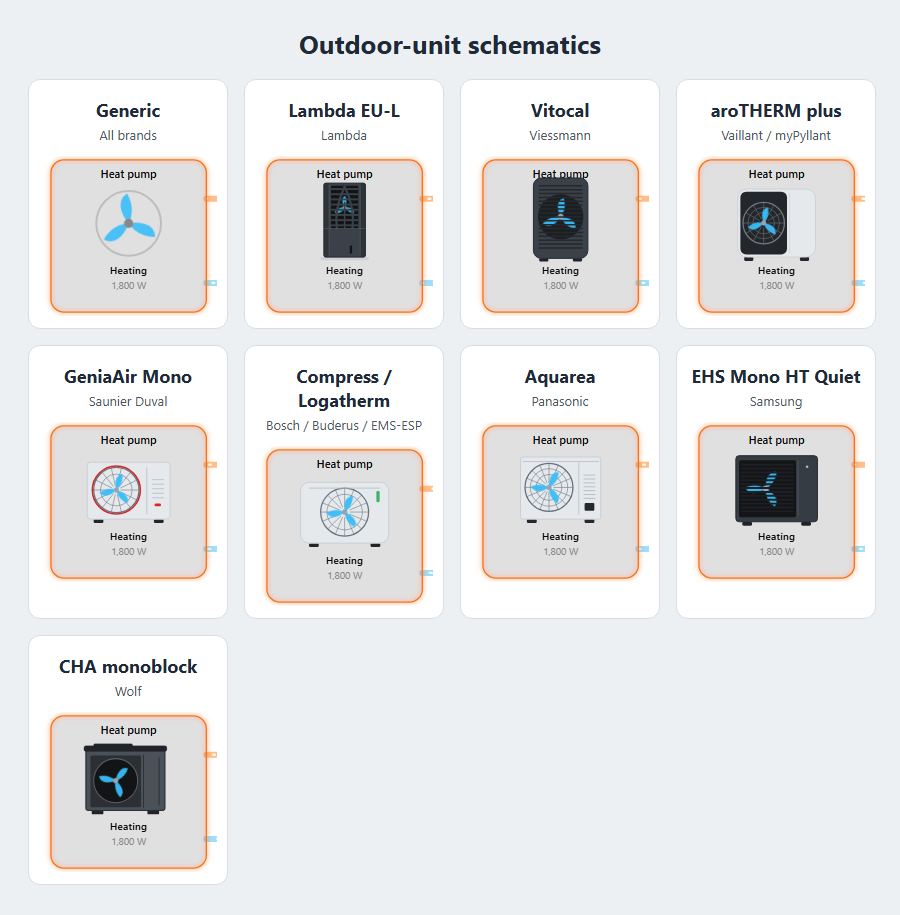
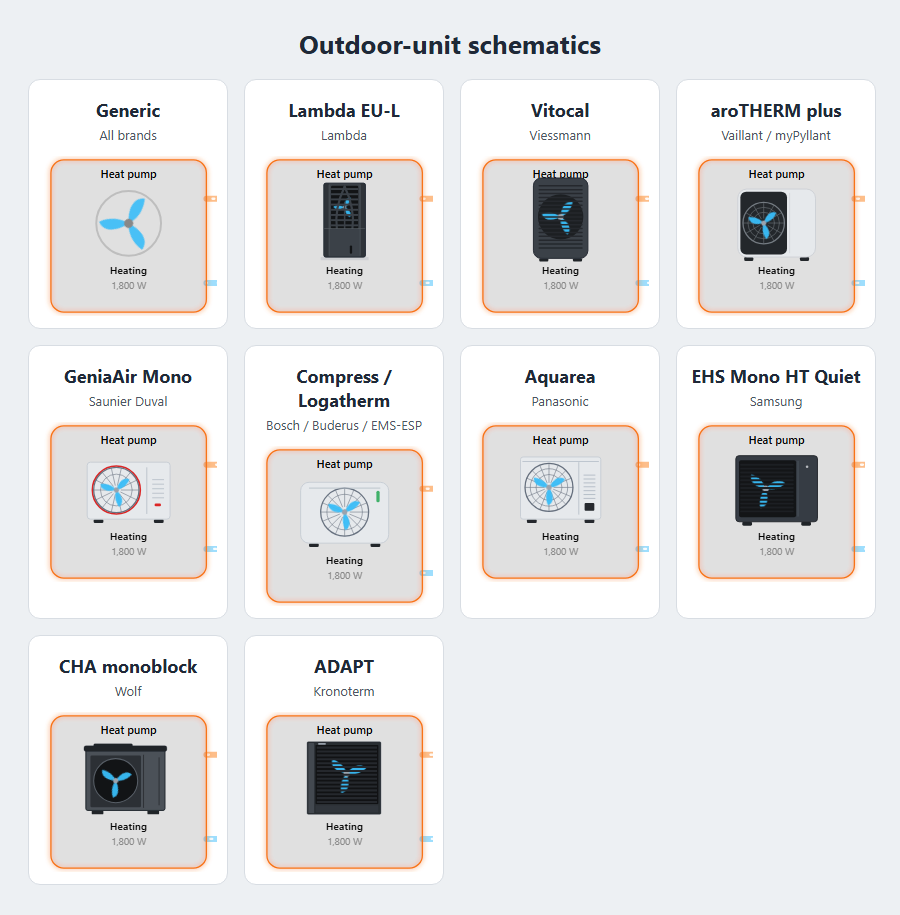
Outdoor-unit drawing for the Kronoterm ADAPT (#157)
unit_style: kronoterm, selected by preset: kronoterm for air units.
Simplified, logo-free ADAPT / ADAPT 2: almost square dark box, louvres
over the whole front hiding the fan, closed side panel, plinth band.
Brine and water units keep the loop symbol.

Topology baseline: only demo 9 (Kronoterm) changes.
README, ROADMAP and docs/unit-styles.png updated.

diff --git a/dist/heatpump-hydraulic-card.js b/dist/heatpump-hydraulic-card.js
@@ -710,6 +710,8 @@ const HFC_PRESETS = {
   kronoterm: {
     name: 'Kronoterm',
     tested: true,
+    // ADAPT air/water unit; brine and water units (ETERA, WPLV …) keep the loop symbol through source_type (#157).
+    unit_style: 'kronoterm',
     // The main circulation pump (register 2038, `main_pump_status`) belongs to the heat pump and runs for heating, hot water and defrost.
     primary_pump: true,
     // The hot water heat pumps of the Kronoterm DHW cloud have neither, so only heating heat pumps are detected.
@@ -1192,7 +1194,7 @@ const HFC_EDITOR = {
     power_sources: 'PV / battery / grid', ps_auto: 'Energy dashboard, unless set below', ps_manual: 'Only the sensors below',
     source_type: 'Heat source', src_air: 'Air', src_brine: 'Ground (brine)', src_water: 'Groundwater',
     hc_count: 'Heating circuits', hc2_type: 'Circuit 2 emitter', hc3_type: 'Circuit 3 emitter', hc4_type: 'Circuit 4 emitter', hc5_type: 'Circuit 5 emitter', hc6_type: 'Circuit 6 emitter',
-    unit_style: 'Unit drawing', unit_auto: 'Automatic (from the preset)', unit_generic: 'Generic (fan)', unit_lambda: 'Lambda EU-L', unit_vaillant: 'Vaillant aroTHERM plus', unit_panasonic: 'Panasonic Aquarea', unit_viessmann: 'Viessmann Vitocal', unit_bosch: 'Bosch / Buderus', unit_saunier: 'Saunier Duval GeniaAir', unit_samsung: 'Samsung EHS Mono', unit_wolf: 'Wolf CHA',
+    unit_style: 'Unit drawing', unit_auto: 'Automatic (from the preset)', unit_generic: 'Generic (fan)', unit_lambda: 'Lambda EU-L', unit_vaillant: 'Vaillant aroTHERM plus', unit_panasonic: 'Panasonic Aquarea', unit_viessmann: 'Viessmann Vitocal', unit_bosch: 'Bosch / Buderus', unit_saunier: 'Saunier Duval GeniaAir', unit_samsung: 'Samsung EHS Mono', unit_wolf: 'Wolf CHA', unit_kronoterm: 'Kronoterm ADAPT',
     unit_size: 'Vaillant size', size_small: '3.5 / 5.5 kW (1 fan, low)', size_medium: '7.5 kW (1 fan)', size_large: '10.5 / 12.5 kW (2 fans)',
     timeline: 'Timeline of the operating mode', timeline_hours: 'Timeline length (hours)', timeline_marks: 'Show the badges (e.g. Boost) as extra lanes',
     layout: 'Layout', layout_default: 'Default', layout_compact: 'Compact (narrow columns)', layout_wide: 'Wide (tiles beside the schematic)', layout_wall: 'Wall display (large, controls fade out)',
@@ -1259,7 +1261,7 @@ const HFC_EDITOR = {
     power_sources: 'PV / Akku / Netz', ps_auto: 'Energie-Dashboard, außer unten gesetzt', ps_manual: 'Nur die Sensoren unten',
     source_type: 'Wärmequelle', src_air: 'Luft', src_brine: 'Erdreich (Sole)', src_water: 'Grundwasser',
     hc_count: 'Heizkreise', hc2_type: 'Wärmeabgabe Heizkreis 2', hc3_type: 'Wärmeabgabe Heizkreis 3', hc4_type: 'Wärmeabgabe Heizkreis 4', hc5_type: 'Wärmeabgabe Heizkreis 5', hc6_type: 'Wärmeabgabe Heizkreis 6',
-    unit_style: 'Geräte-Zeichnung', unit_auto: 'Automatisch (aus der Voreinstellung)', unit_generic: 'Allgemein (Lüfter)', unit_lambda: 'Lambda EU-L', unit_vaillant: 'Vaillant aroTHERM plus', unit_panasonic: 'Panasonic Aquarea', unit_viessmann: 'Viessmann Vitocal', unit_bosch: 'Bosch / Buderus', unit_saunier: 'Saunier Duval GeniaAir', unit_samsung: 'Samsung EHS Mono', unit_wolf: 'Wolf CHA',
+    unit_style: 'Geräte-Zeichnung', unit_auto: 'Automatisch (aus der Voreinstellung)', unit_generic: 'Allgemein (Lüfter)', unit_lambda: 'Lambda EU-L', unit_vaillant: 'Vaillant aroTHERM plus', unit_panasonic: 'Panasonic Aquarea', unit_viessmann: 'Viessmann Vitocal', unit_bosch: 'Bosch / Buderus', unit_saunier: 'Saunier Duval GeniaAir', unit_samsung: 'Samsung EHS Mono', unit_wolf: 'Wolf CHA', unit_kronoterm: 'Kronoterm ADAPT',
     unit_size: 'Vaillant-Größe', size_small: '3,5 / 5,5 kW (1 Lüfter, niedrig)', size_medium: '7,5 kW (1 Lüfter)', size_large: '10,5 / 12,5 kW (2 Lüfter)',
     timeline: 'Zeitleiste der Betriebsart', timeline_hours: 'Länge der Zeitleiste (Stunden)', timeline_marks: 'Badges (z. B. Boost) als zusätzliche Spuren zeigen',
     layout: 'Layout', layout_default: 'Standard', layout_compact: 'Kompakt (schmale Spalten)', layout_wide: 'Breit (Kacheln neben dem Schema)', layout_wall: 'Wanddisplay (groß, Bedienelemente blenden aus)',
@@ -1373,7 +1375,7 @@ const HFC_MAP_KEYS = ['valve_map', 'mode_map', 'dhw_mode_map', 'buffer_mode_map'
 // How the tap water is heated: a coil in the tank, a fresh-water station on the storage, or a tank in the combined storage.
 const HFC_DHW_TYPES = ['coil', 'fresh_water', 'tank_in_tank'];
 // Drawing of the outdoor unit: `auto` takes the style of the preset; `unit_size` picks the Vaillant aroTHERM plus class.
-const HFC_UNIT_STYLES = ['auto', 'generic', 'lambda', 'vaillant', 'panasonic', 'viessmann', 'bosch', 'saunier', 'samsung', 'wolf'];
+const HFC_UNIT_STYLES = ['auto', 'generic', 'lambda', 'vaillant', 'panasonic', 'viessmann', 'bosch', 'saunier', 'samsung', 'wolf', 'kronoterm'];
 const HFC_UNIT_SIZES = ['small', 'medium', 'large'];
 const HFC_EMITTERS = ['underfloor', 'radiator', 'column'];
 // Wall display: seconds the quick controls and the details toggle stay visible after the last touch or mouse move.
@@ -3333,6 +3335,18 @@ class HeatpumpFlowCard extends HTMLElement {
         snows: [[...abs(cx, cy), 18]],
       };
     }
+    if (key === 'kronoterm') {
+      // ADAPT / ADAPT 2: an almost square dark box, the whole front covered by horizontal louvres that hide the fan,
+      // a closed side panel on the left and a plinth band below the louvres.
+      const x = 62; const y = 40; const w = 114; const h = 112; const cx = 123; const cy = 89; const r = 34;
+      const slats = Array.from({ length: 15 }, (_, n) => `<path class="kro-slat" d="M${x + 15} ${y + 9 + n * 6} H${x + w - 6}"/>`).join('');
+      return {
+        below: T(`<rect class="kro-body" x="${x}" y="${y}" width="${w}" height="${h}" rx="2"/><rect class="kro-side" x="${x + 2}" y="${y + 2}" width="9" height="${h - 4}" rx="1"/><rect class="kro-grille" x="${x + 13}" y="${y + 5}" width="${w - 17}" height="${h - 21}" rx="1"/>`),
+        fans: [[...abs(cx, cy), r, 'kro-fan']],
+        above: T(`<g>${slats}</g><rect class="kro-plinth" x="${x + 13}" y="${y + h - 14}" width="${w - 17}" height="11" rx="1"/><rect class="kro-plate" x="${x + 17}" y="${y + 2}" width="12" height="2.5" rx="1"/><rect class="kro-rim" x="${x}" y="${y}" width="${w}" height="${h}" rx="2"/>`),
+        snows: [[...abs(cx, cy), 18]],
+      };
+    }
     return { below: '<circle class="fan-ring" cx="170" cy="288" r="50"/>', fans: [[170, 288, 50, '']], above: '', snows: [[170, 288, 18]] };
   }
 
@@ -4545,9 +4559,9 @@ HeatpumpFlowCard.styles = `
   .lam-plinth { fill: color-mix(in srgb, var(--primary-text-color, #1f2937) 22%, var(--card-background-color, #fff)); }
   /* a rim in the theme text colour keeps the anthracite body visible on dark cards */
   .lam-rim { fill: none; stroke: color-mix(in srgb, var(--primary-text-color, #1f2937) 48%, transparent); stroke-width: 1.4; }
-  .fan.lam-fan .blade, .fan.vai-fan .blade, .fan.pana-fan .blade, .fan.vies-fan .blade, .fan.bosch-fan .blade, .fan.sd-fan .blade, .fan.sam-fan .blade, .fan.wolf-fan .blade { fill: #9aa3ad; opacity: .55; }
-  .fan.lam-fan .hub, .fan.vai-fan .hub, .fan.pana-fan .hub, .fan.vies-fan .hub, .fan.bosch-fan .hub, .fan.sd-fan .hub, .fan.sam-fan .hub, .fan.wolf-fan .hub { fill: #9aa3ad; }
-  .fan.lam-fan.on .blade, .fan.vai-fan.on .blade, .fan.pana-fan.on .blade, .fan.vies-fan.on .blade, .fan.bosch-fan.on .blade, .fan.sd-fan.on .blade, .fan.sam-fan.on .blade, .fan.wolf-fan.on .blade { fill: ${hfcVar('cool')}; opacity: .95; }
+  .fan.lam-fan .blade, .fan.vai-fan .blade, .fan.pana-fan .blade, .fan.vies-fan .blade, .fan.bosch-fan .blade, .fan.sd-fan .blade, .fan.sam-fan .blade, .fan.wolf-fan .blade, .fan.kro-fan .blade { fill: #9aa3ad; opacity: .55; }
+  .fan.lam-fan .hub, .fan.vai-fan .hub, .fan.pana-fan .hub, .fan.vies-fan .hub, .fan.bosch-fan .hub, .fan.sd-fan .hub, .fan.sam-fan .hub, .fan.wolf-fan .hub, .fan.kro-fan .hub { fill: #9aa3ad; }
+  .fan.lam-fan.on .blade, .fan.vai-fan.on .blade, .fan.pana-fan.on .blade, .fan.vies-fan.on .blade, .fan.bosch-fan.on .blade, .fan.sd-fan.on .blade, .fan.sam-fan.on .blade, .fan.wolf-fan.on .blade, .fan.kro-fan.on .blade { fill: ${hfcVar('cool')}; opacity: .95; }
   .vai-body { fill: ${hfcVar('casing')}; stroke: color-mix(in srgb, ${hfcVar('casing')} 80%, #6b7280); stroke-width: 1.5; }
   .vai-dark, .vai-foot { fill: color-mix(in srgb, ${hfcVar('anthracite')} 60%, #000); }
   .vai-gr { fill: none; stroke: color-mix(in srgb, ${hfcVar('anthracite')} 45%, #a0a8b0); stroke-width: 2; } .vai-gr.thin { stroke-width: 1; opacity: .85; }
@@ -4585,6 +4599,13 @@ HeatpumpFlowCard.styles = `
   .wolf-lid { stroke: color-mix(in srgb, var(--primary-text-color, #1f2937) 34%, transparent); stroke-width: 1; }
   .wolf-seam { fill: none; stroke: color-mix(in srgb, ${hfcVar('anthracite')} 62%, #000); stroke-width: 1.2; }
   .wolf-rim { fill: none; stroke: color-mix(in srgb, var(--primary-text-color, #1f2937) 42%, transparent); stroke-width: 1.2; }
+  .kro-body { fill: color-mix(in srgb, ${hfcVar('anthracite')} 70%, #000); }
+  .kro-side { fill: color-mix(in srgb, ${hfcVar('anthracite')} 92%, #9ca3af); }
+  .kro-grille { fill: color-mix(in srgb, ${hfcVar('anthracite')} 28%, #000); }
+  .kro-slat { fill: none; stroke: color-mix(in srgb, ${hfcVar('anthracite')} 62%, #000); stroke-width: 3.2; }
+  .kro-plinth { fill: color-mix(in srgb, ${hfcVar('anthracite')} 82%, #000); }
+  .kro-plate { fill: color-mix(in srgb, ${hfcVar('casing')} 60%, #64748b); opacity: .8; }
+  .kro-rim { fill: none; stroke: color-mix(in srgb, var(--primary-text-color, #1f2937) 42%, transparent); stroke-width: 1.2; }
   /* timeline of the operating mode */
   .timeline { margin: 8px 4px 0; }
   .tl-head { display: flex; justify-content: space-between; gap: 8px; font-size: .82em; color: var(--hfc-muted); }

diff --git a/test/selftest.html b/test/selftest.html
@@ -1465,7 +1465,7 @@
     const draw = async (setup, scen, cfg = {}) => {
       const c = mount({ ...setup.config, ...cfg }, hassOf(toStates(setup.states(scen)), setup.registry || {}, setup.energy, setup)); await wait(20);
       const q = (sel) => c.shadowRoot.querySelectorAll(sel).length;
-      const out = { lam: q('.lam-body'), vai: q('.vai-body'), pana: q('.pana-body'), vies: q('.vies-body'), bosch: q('.bosch-body'), sd: q('.sd-body'), samsung: q('.sam-body'), wolf: q('.wolf-body'), ring: q('.fan-ring'), fans: q('.fan'), snows: q('.snow'), fan2on: c.shadowRoot.getElementById('fan2')?.classList.contains('on'), snow2on: c.shadowRoot.getElementById('snow2')?.classList.contains('on'),
+      const out = { lam: q('.lam-body'), vai: q('.vai-body'), pana: q('.pana-body'), vies: q('.vies-body'), bosch: q('.bosch-body'), sd: q('.sd-body'), samsung: q('.sam-body'), wolf: q('.wolf-body'), kro: q('.kro-body'), ring: q('.fan-ring'), fans: q('.fan'), snows: q('.snow'), fan2on: c.shadowRoot.getElementById('fan2')?.classList.contains('on'), snow2on: c.shadowRoot.getElementById('snow2')?.classList.contains('on'),
         origin: c.shadowRoot.getElementById('fan')?.style.transformOrigin, ok: ok(c) };
       c.remove(); return out;
     };
@@ -1480,7 +1480,11 @@
     o = await draw(setups.find((s) => !s.config.preset && !s.config.unit_style), 'heat');
     check(o.lam === 0 && o.vai === 0 && o.ring === 1, 'manual setups without a style keep the generic drawing');
     o = await draw(byPreset('kronoterm'), 'heat');
-    check(o.lam === 0 && o.vai === 0 && o.ring === 1 && o.ok, 'the Kronoterm preset keeps the generic drawing');
+    check(o.kro === 1 && o.ring === 0 && o.fans === 1 && o.ok, `Kronoterm preset draws the ADAPT unit (${JSON.stringify(o)})`);
+    o = await draw(byPreset('kronoterm'), 'defrost');
+    check(o.kro === 1 && o.snows === 1, 'ADAPT unit gets one snowflake while defrosting');
+    o = await draw(byPreset('kronoterm'), 'heat', { source_type: 'brine' });
+    check(o.kro === 0 && o.ok, 'a Kronoterm brine unit keeps the loop symbol');
     o = await draw(byPreset('wolf'), 'heat');
     check(o.wolf === 1 && o.ring === 0 && o.fans === 1 && o.ok, `Wolf preset draws the CHA unit (${JSON.stringify(o)})`);
     o = await draw(byPreset('wolf'), 'defrost');
@@ -1511,7 +1515,7 @@
     check(o.samsung === 1 && o.ring === 0 && o.fans === 1 && o.ok, `Samsung preset draws the EHS Mono unit (${JSON.stringify(o)})`);
     // Automatic drawing per preset, as listed in the README table "Outdoor-unit style coverage" (#151). A new preset needs an entry here.
     const unitOf = { lambda: 'lambda', vicare: 'viessmann', open3e: 'viessmann', vaillant: 'vaillant', ebusd: 'vaillant', emsesp: 'bosch', bosch_buderus_heating: 'bosch',
-      heishamon: 'panasonic', samsung: 'samsung', wolf: 'wolf', kronoterm: 'generic', luxtronik: 'generic', stiebel_isg: 'generic' };
+      heishamon: 'panasonic', samsung: 'samsung', wolf: 'wolf', kronoterm: 'kronoterm', luxtronik: 'generic', stiebel_isg: 'generic' };
     const unitWrong = Object.keys(HFC_PRESETS).filter((p) => (HFC_PRESETS[p].unit_style || 'generic') !== unitOf[p]);
     check(!unitWrong.length, `every preset selects the outdoor-unit drawing the README lists (${unitWrong.join(', ') || 'all match'})`);
     check(Object.values(unitOf).every((s) => HFC_UNIT_STYLES.includes(s)), 'the expected drawings are valid unit_style values');

diff --git a/test/topology-snapshot.js b/test/topology-snapshot.js
@@ -180,26 +180,26 @@ window.HFC_TOPOLOGY_SNAPSHOT = {
   "demo 8 narrow dhw": "4cd42eb4 eab82e5e",
   "demo 8 narrow defrost": "abc3efd0 082c5261",
   "demo 8 narrow idle": "abc3efd0 0026619d",
-  "demo 9 default heat": "df1e6269 50da207e",
-  "demo 9 default dhw": "0c03c7d6 d4298862",
-  "demo 9 default defrost": "df1e6269 ef6e5cee",
-  "demo 9 default idle": "d5a57af6 cdecfc75",
-  "demo 9 compact heat": "df1e6269 50da207e",
-  "demo 9 compact dhw": "0c03c7d6 d4298862",
-  "demo 9 compact defrost": "df1e6269 ef6e5cee",
-  "demo 9 compact idle": "d5a57af6 cdecfc75",
-  "demo 9 wide heat": "df1e6269 50da207e",
-  "demo 9 wide dhw": "0c03c7d6 d4298862",
-  "demo 9 wide defrost": "df1e6269 ef6e5cee",
-  "demo 9 wide idle": "d5a57af6 cdecfc75",
-  "demo 9 wall heat": "df1e6269 50da207e",
-  "demo 9 wall dhw": "0c03c7d6 d4298862",
-  "demo 9 wall defrost": "df1e6269 ef6e5cee",
-  "demo 9 wall idle": "d5a57af6 cdecfc75",
-  "demo 9 narrow heat": "df1e6269 2d33cc35",
-  "demo 9 narrow dhw": "0c03c7d6 39ffed81",
-  "demo 9 narrow defrost": "df1e6269 cfd0cf25",
-  "demo 9 narrow idle": "d5a57af6 91d121f4",
+  "demo 9 default heat": "1f0011ad 374965c9",
+  "demo 9 default dhw": "c3648ac6 d2794d8d",
+  "demo 9 default defrost": "1f0011ad 0e52aaf5",
+  "demo 9 default idle": "98e5da86 cc4f9e24",
+  "demo 9 compact heat": "1f0011ad 374965c9",
+  "demo 9 compact dhw": "c3648ac6 d2794d8d",
+  "demo 9 compact defrost": "1f0011ad 0e52aaf5",
+  "demo 9 compact idle": "98e5da86 cc4f9e24",
+  "demo 9 wide heat": "1f0011ad 374965c9",
+  "demo 9 wide dhw": "c3648ac6 d2794d8d",
+  "demo 9 wide defrost": "1f0011ad 0e52aaf5",
+  "demo 9 wide idle": "98e5da86 cc4f9e24",
+  "demo 9 wall heat": "1f0011ad 374965c9",
+  "demo 9 wall dhw": "c3648ac6 d2794d8d",
+  "demo 9 wall defrost": "1f0011ad 0e52aaf5",
+  "demo 9 wall idle": "98e5da86 cc4f9e24",
+  "demo 9 narrow heat": "1f0011ad e71020b0",
+  "demo 9 narrow dhw": "c3648ac6 3ff76b6c",
+  "demo 9 narrow defrost": "1f0011ad 7c6b1374",
+  "demo 9 narrow idle": "98e5da86 1d036477",
   "demo 10 default heat": "8ecdb8a7 a86ab1cc",
   "demo 10 default dhw": "5cdb118f b5f68c15",
   "demo 10 default defrost": "8ecdb8a7 07b857c5",

diff --git a/demo/index.html b/demo/index.html
@@ -107,7 +107,7 @@ let lang = ['en', 'de', 'nl'].includes(q.get('lang')) ? q.get('lang') : 'en';
 if (q.get('embed') === '1') document.body.classList.add('embed');
 let layout = ['default', 'compact', 'wide', 'wall'].includes(q.get('layout')) ? q.get('layout') : 'default';
 let theme = ['auto', 'night', 'contrast'].includes(q.get('theme')) ? q.get('theme') : 'auto';
-const unitKeys = ['auto', 'generic', 'lambda', 'vaillant-small', 'vaillant-medium', 'vaillant-large', 'panasonic', 'viessmann', 'bosch', 'saunier', 'samsung', 'wolf'];
+const unitKeys = ['auto', 'generic', 'lambda', 'vaillant-small', 'vaillant-medium', 'vaillant-large', 'panasonic', 'viessmann', 'bosch', 'saunier', 'samsung', 'wolf', 'kronoterm'];
 let unit = unitKeys.includes(q.get('unit')) ? q.get('unit') : 'auto';
 let palette = q.get('palette') === 'teal' ? 'teal' : 'default';
 const palettes = { teal: { '--hfc-heat': '#14b8a6', '--hfc-hot': '#e11d48', '--hfc-flow-cold': '#5eead4', '--hfc-flow-hot': '#e11d48', '--hfc-tank-cold': '#6366f1', '--hfc-tank-hot': '#f43f5e', '--hfc-pv': '#eab308' } };
@@ -210,7 +210,7 @@ scenarios.forEach(([k, l]) => mk('states', l, k, () => { scen = k; }));
   ['auto', 'Automatic'], ['generic', 'Generic'], ['lambda', 'Lambda'],
   ['vaillant-small', 'Vaillant 3.5 / 5.5 kW'], ['vaillant-medium', 'Vaillant 7.5 kW'], ['vaillant-large', 'Vaillant 10.5 / 12.5 kW'],
   ['panasonic', 'Panasonic Aquarea'], ['viessmann', 'Viessmann Vitocal'], ['bosch', 'Bosch / Buderus'],
-  ['saunier', 'Saunier Duval GeniaAir'], ['samsung', 'Samsung EHS Mono'], ['wolf', 'Wolf CHA'],
+  ['saunier', 'Saunier Duval GeniaAir'], ['samsung', 'Samsung EHS Mono'], ['wolf', 'Wolf CHA'], ['kronoterm', 'Kronoterm ADAPT'],
 ].forEach(([k, l]) => mk('units', l, k, () => { unit = k; }));
 [['default', 'Default'], ['teal', 'Teal']].forEach(([k, l]) => mk('palettes', l, k, () => { palette = k; }));
 mk('display', 'English', 'en', () => { lang = 'en'; });

diff --git a/README.md b/README.md
@@ -22,7 +22,7 @@ It shows electricity flowing from **PV, battery and grid** into the heat pump, t
 |---|---|---|---|---|
 | `lambda` | **Lambda** (EU-L series) | [lambda_heat_pumps](https://github.com/GuidoJeuken-6512/lambda_heat_pumps) (HACS) | Lambda EU-L | tested on a real installation |
 | `heishamon` | **Panasonic** Aquarea (H, J, K, L generation; monoblock, split, all-in-one) | [HeishaMon](https://github.com/heishamon/HeishaMon) + [heishamon-homeassistant](https://github.com/kamaradclimber/heishamon-homeassistant) (HACS) | Panasonic Aquarea | confirmed on a real installation |
-| `kronoterm` | **Kronoterm** (ADAPT, ETERA, VERSI, WPLV …) | [Kronoterm](https://github.com/Favio25/Kronoterm-homeassistant) (HACS), Cloud API or Modbus | generic (no Kronoterm drawing yet) | Cloud API confirmed on a real installation; Modbus from the integration source |
+| `kronoterm` | **Kronoterm** (ADAPT, ETERA, VERSI, WPLV …) | [Kronoterm](https://github.com/Favio25/Kronoterm-homeassistant) (HACS), Cloud API or Modbus | Kronoterm ADAPT (air units) | Cloud API confirmed on a real installation; Modbus from the integration source |
 | `vicare` | **Viessmann** (Vitocal) | [ViCare](https://www.home-assistant.io/integrations/vicare/) (core) | Viessmann Vitocal 250-A | untested |
 | `open3e` | **Viessmann** (Vitocal) | [Open3E](https://github.com/MojoOli/open3e-ha) (HACS, MQTT) | Viessmann Vitocal 250-A | untested |
 | `vaillant` | **Vaillant** (aroTHERM, aroTHERM plus), **Saunier Duval**, **Bulex**, **Glow-worm**, **DemirDöküm** | [myPyllant](https://github.com/signalkraft/mypyllant-component) (HACS) | Vaillant aroTHERM plus by default; Saunier Duval GeniaAir Mono by manual override | untested |
@@ -65,7 +65,7 @@ The completed release history and the prioritized post-0.14.0 backlog are mainta
 
 - **Power sources:** PV / battery / grid → heat pump, animated whenever more than 10 W flow. Taken automatically from your **Energy dashboard** (its power sensors), or from your own sensors.
 - **Heat pump:** the fan spins while the compressor runs, faster at higher compressor modulation (or higher power, when the integration has no modulation value); the circuit pumps and the flow lines follow the modulation as well. Shows mode and sub-state, electrical power → heat output, and live COP. Defrost is shown with a snowflake, restrained vapour and an icy flow line. The frame of the block is orange while heating, red for hot water and blue while defrosting or cooling, grey in standby. A long status line wraps into mode and status. A backup / inline heater (`heater`) glows inside the unit while it runs. With a fan speed entity (`fan_speed`) the fan follows its own speed and runs on after the compressor stops. The heat pump's own **primary pump** (`primary_pump`) is drawn on the flow pipe next to the block, turning with the flow rate; the flow dashes of the pipes move in proportion to the flow rate.
-- **Unit drawing:** the heat pump block can show simplified, logo-free outdoor units for Lambda, Viessmann, Vaillant, Bosch/Buderus, Panasonic, Saunier Duval, Samsung and Wolf. Presets select a style where the integration identifies the product family; every style is also available manually. The fan spins, the blades turn blue while running, and each fan gets its own snowflake while defrosting.
+- **Unit drawing:** the heat pump block can show simplified, logo-free outdoor units for Lambda, Viessmann, Vaillant, Bosch/Buderus, Panasonic, Saunier Duval, Samsung, Wolf and Kronoterm. Presets select a style where the integration identifies the product family; every style is also available manually. The fan spins, the blades turn blue while running, and each fan gets its own snowflake while defrosting.
 - **Heat source:** air (the outdoor temperature is shown under the unit; default), **ground** with a brine loop or **groundwater** with two wells (`source_type`), with source inlet and outlet temperatures and the source flow rate. Optional brine and heating-circuit pressures are normalized to bar and can show warning/critical thresholds with text symbols as well as colour.
 - **Diverter valve:** shows DHW or heating; the active circuit is animated.
 - **Tanks:** DHW tank and buffer with a top/bottom temperature gradient, optionally refined by a middle sensor (`dhw_middle`, `buffer_middle`; blue = cold, then cyan and orange, red = hot), target, mode, a heat-exchanger coil while charging, and the circulation pump. **Heater rods** (`dhw_heater`, `buffer_heater`) glow orange while on, red at stage 2 or higher. A **series buffer** (`series_buffer: true`) sits in the return of the heating circuits with a 3-way bypass valve (`bypass_valve`, or the defrost signal) so that the heat pump defrosts from the buffer water; without a bypass valve set `series_bypass: false`. A **combined storage** (`storage: combined`) is drawn as one tall tank with the hot-water zone on top and the heating zone below; the six storage sensors are heights in it. `dhw_type` draws a **fresh-water station** (beside the combined storage, or on a parallel buffer instead of a hot-water tank) or a **tank in tank**.
@@ -108,7 +108,7 @@ The completed release history and the prioritized post-0.14.0 backlog are mainta
 
 | `unit_style` | Schematic based on | Brands / families covered | Automatic selection |
 |---|---|---|---|
-| `generic` | Neutral fan symbol | Any air-source heat pump | Fallback without a known style, also `preset: luxtronik`, `preset: stiebel_isg` and `preset: kronoterm`; ground and groundwater sources show their loop symbol instead |
+| `generic` | Neutral fan symbol | Any air-source heat pump | Fallback without a known style, also `preset: luxtronik` and `preset: stiebel_isg`; ground and groundwater sources show their loop symbol instead |
 | `lambda` | Lambda EU-L | Lambda | `preset: lambda` |
 | `viessmann` | Viessmann Vitocal 250-A | Viessmann Vitocal | `preset: vicare`, `preset: open3e` |
 | `vaillant` | Vaillant aroTHERM plus | Vaillant; default fallback for the shared myPyllant brands | `preset: vaillant` |
@@ -117,6 +117,7 @@ The completed release history and the prioritized post-0.14.0 backlog are mainta
 | `panasonic` | Panasonic Aquarea | Panasonic Aquarea | `preset: heishamon` |
 | `samsung` | Samsung EHS Mono HT Quiet | Samsung EHS Mono / Mono HT Quiet | `preset: samsung` |
 | `wolf` | Wolf CHA monoblock | Wolf CHA-07/10 and CHA-16/20 (same proportions) | `preset: wolf` |
+| `kronoterm` | Kronoterm ADAPT | Kronoterm ADAPT and ADAPT 2 air/water units (louvred front); brine and water units keep the loop symbol | `preset: kronoterm` |
 
 These are deliberately simplified original drawings without manufacturer logos. Related brands can share an integration even when their enclosures differ; set `unit_style` explicitly whenever the automatic family drawing does not match the installed unit.
 
@@ -575,7 +576,7 @@ Everything can be set in the **UI editor**. With a preset, the editor shows whet
 | `source_spread` | Show `source_in − source_out` on a running ground/groundwater loop (default `true`). |
 | `brine_pressure_min`, `brine_pressure_crit`, `brine_pressure_max` | Optional brine-pressure thresholds in bar. Below `crit` is critical; below `min` or above `max` is a warning. |
 | `hc_pressure_min`, `hc_pressure_crit`, `hc_pressure_max` | Optional heating-pressure thresholds in bar, with the same warning/critical logic. |
-| `unit_style` | Drawing of the outdoor unit: `auto` (default, uses the preset style), `generic`, `lambda`, `viessmann`, `vaillant`, `saunier`, `bosch`, `panasonic`, `samsung` or `wolf`. Ground and groundwater sources keep their loop symbol. See [Outdoor-unit style coverage](#outdoor-unit-style-coverage). |
+| `unit_style` | Drawing of the outdoor unit: `auto` (default, uses the preset style), `generic`, `lambda`, `viessmann`, `vaillant`, `saunier`, `bosch`, `panasonic`, `samsung`, `wolf` or `kronoterm`. Ground and groundwater sources keep their loop symbol. See [Outdoor-unit style coverage](#outdoor-unit-style-coverage). |
 | `unit_size` | Vaillant aroTHERM plus class: `small` (3.5 and 5.5 kW, one fan, low), `medium` (7.5 kW, one fan, default) or `large` (10.5 and 12.5 kW, two fans). |
 | `timeline` | `true` shows a strip with the operating mode of the last hours under the schematic (needs the `mode` entity, or the `compressor` and optionally the `valve`, and the Home Assistant history). |
 | `timeline_hours` | Length of the timeline in hours, 3 to 72 (default 24). |

diff --git a/docs/ROADMAP.md b/docs/ROADMAP.md
@@ -22,7 +22,7 @@ The immediate work is evidence gathering rather than another broad feature relea
 
 ## Next low-risk work
 
-1. Treat the remaining brand drawings in [#5](https://github.com/Sturmi77/heatpump-hydraulic-card/issues/5) as one brand per change, each with its own visual and browser checks and original references. Open candidates: the Luxtronik brands (Alpha Innotec, Novelan, Roth, Siemens, Elco, Nibe), Kronoterm and Stiebel Eltron (Wolf CHA done in #156); air units only, brine and water units keep the loop symbol.
+1. Treat the remaining brand drawings in [#5](https://github.com/Sturmi77/heatpump-hydraulic-card/issues/5) as one brand per change, each with its own visual and browser checks and original references. Open candidates: the Luxtronik brands (Alpha Innotec, Novelan, Roth, Siemens, Elco, Nibe), and Stiebel Eltron (Wolf CHA done in #156, Kronoterm ADAPT in #157); air units only, brine and water units keep the loop symbol.
 2. Map the cut-out counters of [#35](https://github.com/Sturmi77/heatpump-hydraulic-card/issues/35) in presets only from verified integration or installation data.
 
 Multiple entities per key [#23](https://github.com/Sturmi77/heatpump-hydraulic-card/issues/23) remains a separate later sprint because it changes entity resolution, calculations and the editor contract. Recorder- and time-window-based features stay outside this small-work track unless a real data set backs them; 0.13.0 added two (the PV surplus share and the DHW standby loss), each with conservative exclusion rules and documented limits.

diff --git a/changelog.d/157.md b/changelog.d/157.md
@@ -1,0 +1,1 @@
+- Outdoor-unit drawing `unit_style: kronoterm`: a simplified, logo-free Kronoterm ADAPT (almost square dark box, louvres over the whole front hiding the fan, closed side panel, plinth band). `preset: kronoterm` selects it automatically for air units; brine and water units keep the loop symbol (#157).
